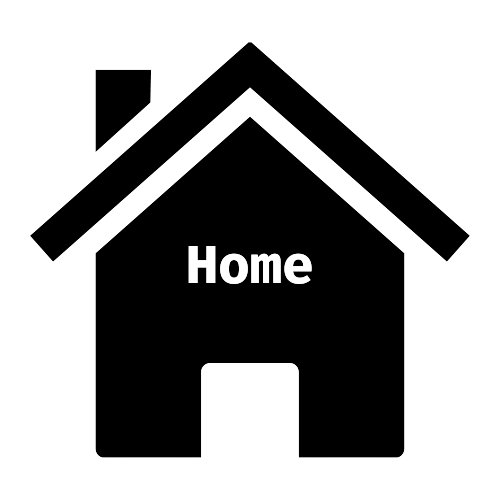
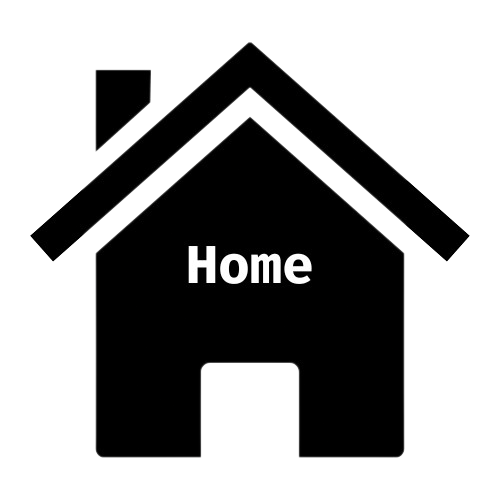
adds home btn to editor

diff --git a/ui/src/screens/editor/Tools.tsx b/ui/src/screens/editor/Tools.tsx
@@ -12,6 +12,7 @@ interface ToolsProps {
     setCurrentPage: (newPage: number) => void
     setRunning: (newState: boolean) => void
     running: boolean
+    goBackHome: () => any
 }
 
 interface ToolButtonProps {
@@ -29,6 +30,9 @@ function ToolButton(props: ToolButtonProps) {
 
 export default function Tools(props: ToolsProps) {
     return <div className="tools">
+        <ToolButton onClick={() => props.goBackHome()}>
+            <img src={getAsset("home-btn.png")} />
+        </ToolButton>
         <ToolButton onClick={() => props.setCurrentPage(0)}>
             <img src={getAsset("editor.png")} />
         </ToolButton>

diff --git a/ui/src/screens/editor/Editor.tsx b/ui/src/screens/editor/Editor.tsx
@@ -210,6 +210,7 @@ function Editor(props: EditorProps) {
             setCurrentPage={setCurrentPage}
             setRunning={setIsRunning}
             running={isRunning}
+            goBackHome={() => props.setPage(0)}
         />
         {loaded ? (currentPage == 0 ? <>
             <Tabs className={`tabs__component`} tabs={createTabs()} onChange={(index) => {

diff --git a/ui/src/screens/editor/Editor.scss b/ui/src/screens/editor/Editor.scss
@@ -29,7 +29,7 @@ $console-height: 130px;
         background-color: grey;
 
         display: flex;
-        justify-content: space-evenly;
+        justify-content: flex-start;
         gap: 5px;
 
         .toolButton {
